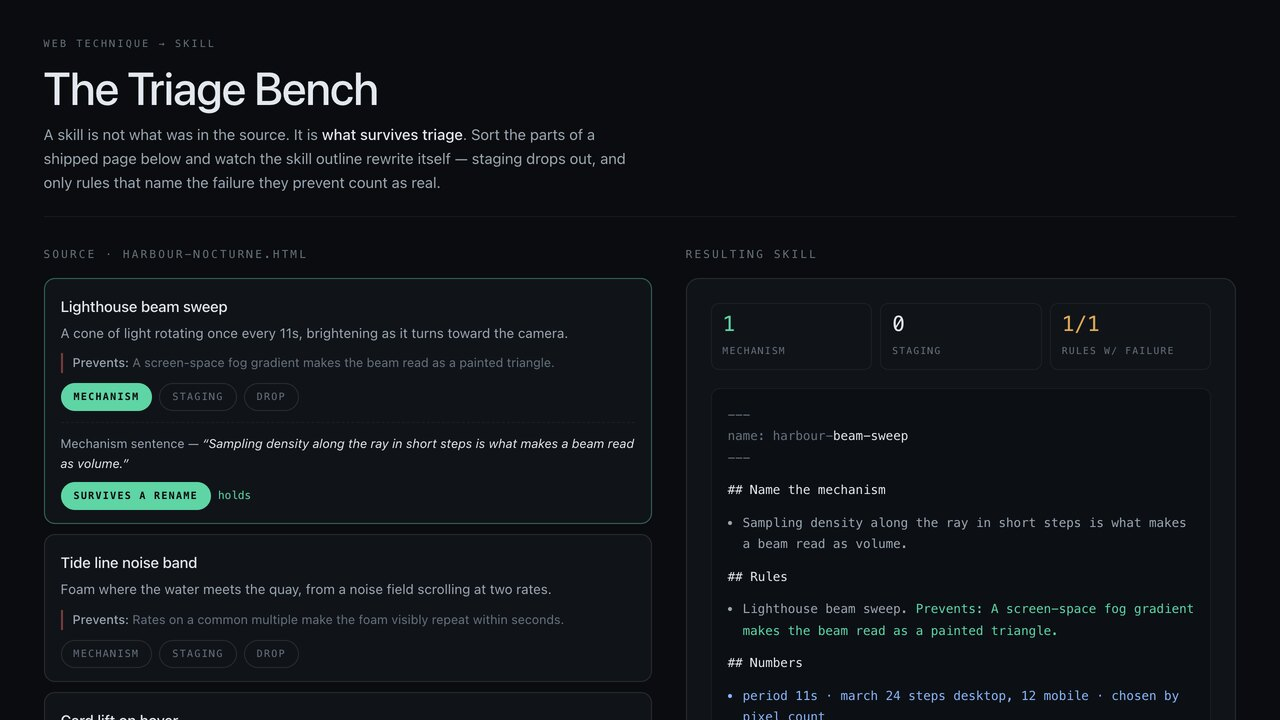
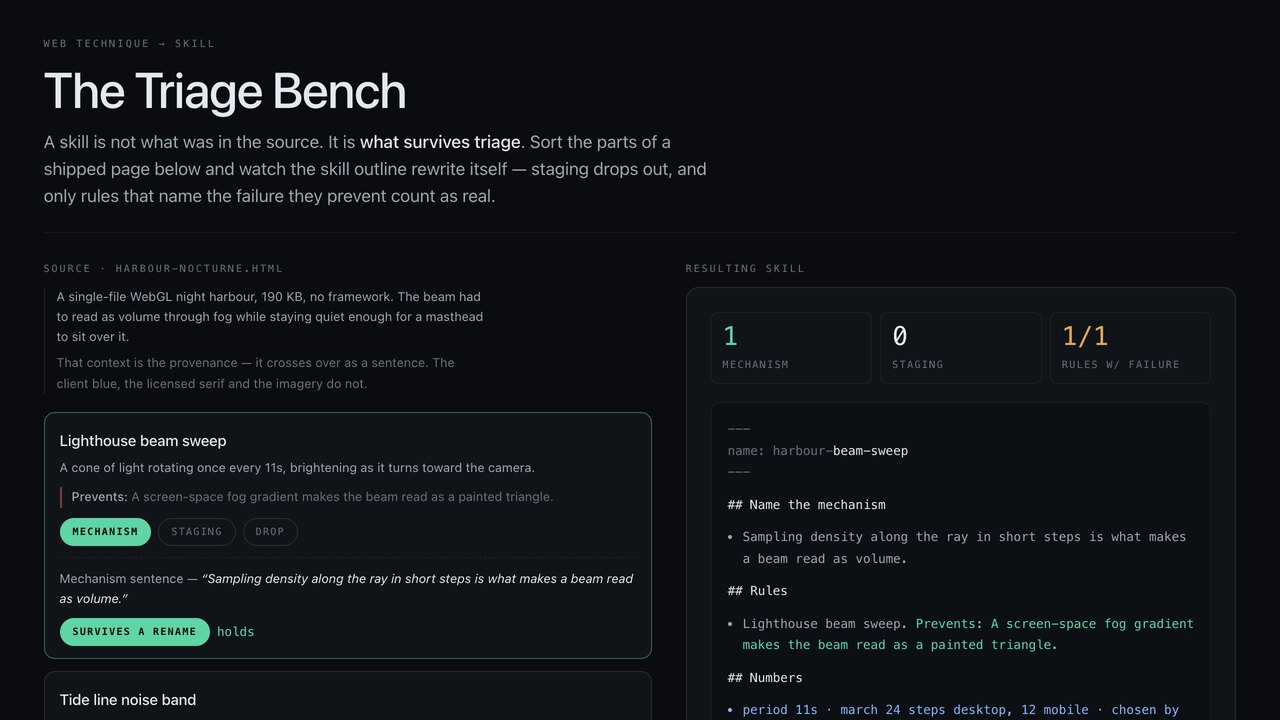
Direct the demo on craft and provenance
The demo is the only evidence most readers see, so give it real direction
rather than a bullet list.

Add "Record where the design came from": one line of context naming the
project and what the mechanism was doing in it, because applicability is
judged from the original context. Provenance crosses over as a sentence,
never as a client name, licensed font, or asset.

Add "Direct the demo": inherit the craft bar of the source rather than of
a code sample; re-subject rather than re-skin; show the mechanism on the
first screen; one idea per screen. Add a quality floor covering type
scale, spacing rhythm, palette restraint, styled focus states, real copy,
self-containment, and the 390-to-1440 range.

Hold the demo to it: one declared type scale and one spacing rhythm
replacing values set by eye, and a provenance note that demonstrates the
rule instead of only describing it.

diff --git a/agent-skills/codex/web-technique-to-skill/demo/index.html b/agent-skills/codex/web-technique-to-skill/demo/index.html
@@ -18,45 +18,62 @@
     --drop:#e0645c;
     --pad:clamp(18px,3.4vw,44px);
     --ease:cubic-bezier(.22,.65,.28,1);
+
+    /* One type scale, ratio ~1.28, so nothing is sized by eye. */
+    --t-label:10px;   /* mono eyebrows and pills   */
+    --t-fine:12.5px;  /* captions, code, verdicts  */
+    --t-body:15px;    /* base                      */
+    --t-lede:17.5px;  /* the one paragraph that matters */
+    --t-head:clamp(28px,4.6vw,50px);
+    --t-num:clamp(21px,2.3vw,26px);
+
+    /* One spacing rhythm. Every gap below is a multiple of --r. */
+    --r:6px;
   }
   *,*::before,*::after{ box-sizing:border-box; }
   html{ -webkit-text-size-adjust:100%; }
   body{
     margin:0; background:var(--ink); color:var(--bone);
     font-family:ui-sans-serif,system-ui,-apple-system,'Helvetica Neue',sans-serif;
-    font-size:15px; line-height:1.6; -webkit-font-smoothing:antialiased;
+    font-size:var(--t-body); line-height:1.62; -webkit-font-smoothing:antialiased;
   }
   .mono{ font-family:ui-monospace,SFMono-Regular,Menlo,monospace; }
 
   .wrap{ max-width:1440px; margin:0 auto; padding:0 var(--pad) clamp(40px,7vh,80px); }
 
   header{ padding:clamp(26px,5vh,54px) 0 22px; border-bottom:1px solid var(--edge-soft); }
-  .eyebrow{ font-size:10px; letter-spacing:.22em; text-transform:uppercase; color:var(--mute);
+  .eyebrow{ font-size:var(--t-label); letter-spacing:.22em; text-transform:uppercase; color:var(--mute);
     font-family:ui-monospace,SFMono-Regular,Menlo,monospace; margin:0 0 12px; }
-  h1{ margin:0 0 10px; font-size:clamp(27px,4.2vw,46px); line-height:1.05;
+  h1{ margin:0 0 calc(var(--r)*2); font-size:var(--t-head); line-height:1.04;
     letter-spacing:-.02em; font-weight:500; }
-  .lede{ margin:0; max-width:62ch; color:var(--dim); }
+  .lede{ margin:0; max-width:62ch; color:var(--dim); font-size:var(--t-lede); line-height:1.55; }
   .lede b{ color:var(--bone); font-weight:500; }
 
   .bench{ display:grid; gap:clamp(20px,2.6vw,38px); padding-top:clamp(22px,4vh,38px);
     grid-template-columns:minmax(0,1.05fr) minmax(0,.95fr); align-items:start; }
   @media (max-width:860px){ .bench{ grid-template-columns:1fr; } }
 
-  h2{ font-size:11px; letter-spacing:.2em; text-transform:uppercase; color:var(--mute);
+  h2{ font-size:var(--t-label); letter-spacing:.2em; text-transform:uppercase; color:var(--mute);
     font-family:ui-monospace,SFMono-Regular,Menlo,monospace; font-weight:500;
-    margin:0 0 14px; }
+    margin:0 0 calc(var(--r)*1.5); }
+
+  /* Provenance is context, not assets — so it is set as a note, not a card. */
+  .prov{ margin:0 0 calc(var(--r)*3); padding-left:calc(var(--r)*2);
+    border-left:1px solid var(--edge); font-size:var(--t-fine); color:var(--dim);
+    max-width:56ch; }
+  .prov span{ display:block; margin-top:var(--r); color:var(--mute); }
 
   /* ------------------------------------------------------------- the parts */
-  .parts{ display:flex; flex-direction:column; gap:10px; list-style:none; margin:0; padding:0; }
+  .parts{ display:flex; flex-direction:column; gap:calc(var(--r)*2); list-style:none; margin:0; padding:0; }
   .part{ border:1px solid var(--edge); border-radius:11px; background:var(--panel);
-    padding:15px 16px 13px; transition:border-color .35s var(--ease); }
+    padding:calc(var(--r)*2.5) calc(var(--r)*2.5) calc(var(--r)*2); transition:border-color .35s var(--ease); }
   .part[data-pile="mechanism"]{ border-color:rgba(95,212,164,.42); }
   .part[data-pile="staging"]  { border-color:rgba(224,169,85,.38); }
   .part[data-pile="drop"]     { border-color:var(--edge-soft); opacity:.5; }
 
-  .part h3{ margin:0 0 5px; font-size:15px; font-weight:500; letter-spacing:-.01em; }
-  .part p{ margin:0 0 9px; font-size:13.5px; color:var(--dim); }
-  .fail{ display:block; font-size:12.5px; color:var(--mute); border-left:2px solid rgba(224,100,92,.5);
+  .part h3{ margin:0 0 var(--r); font-size:var(--t-body); font-weight:500; letter-spacing:-.01em; }
+  .part p{ margin:0 0 calc(var(--r)*1.5); font-size:var(--t-fine); color:var(--dim); }
+  .fail{ display:block; font-size:var(--t-fine); color:var(--mute); border-left:2px solid rgba(224,100,92,.5);
     padding-left:10px; margin:0 0 10px; }
   .fail b{ color:var(--dim); font-weight:500; }
 
@@ -65,7 +82,7 @@
   .opt{ position:relative; }
   .opt input{ position:absolute; inset:0; opacity:0; width:100%; height:100%; margin:0; cursor:pointer; }
   .opt span{ display:block; padding:5px 12px; border:1px solid var(--edge); border-radius:100px;
-    font-size:10px; letter-spacing:.13em; text-transform:uppercase; color:var(--mute);
+    font-size:var(--t-label); letter-spacing:.13em; text-transform:uppercase; color:var(--mute);
     font-family:ui-monospace,SFMono-Regular,Menlo,monospace;
     transition:color .3s var(--ease), border-color .3s var(--ease), background-color .3s var(--ease); }
   .opt input:checked + span{ color:var(--ink); font-weight:600; }
@@ -78,10 +95,10 @@
   /* the rename test appears only once a part is called a mechanism */
   .test{ margin-top:11px; padding-top:11px; border-top:1px dashed var(--edge-soft); }
   .test[hidden]{ display:none; }
-  .test p{ margin:0 0 8px; font-size:12.5px; color:var(--dim); }
+  .test p{ margin:0 0 calc(var(--r)*1.5); font-size:var(--t-fine); color:var(--dim); }
   .test q{ color:var(--bone); font-style:italic; }
   .test .row{ display:flex; flex-wrap:wrap; gap:7px; align-items:center; }
-  .verdict{ font-size:11px; color:var(--keep); font-family:ui-monospace,SFMono-Regular,Menlo,monospace; }
+  .verdict{ font-size:var(--t-fine); color:var(--keep); font-family:ui-monospace,SFMono-Regular,Menlo,monospace; }
   .verdict.bad{ color:var(--drop); }
 
   /* ----------------------------------------------------------- the outline */
@@ -91,16 +108,16 @@
 
   .meter{ display:flex; flex-wrap:wrap; gap:8px; margin:0 0 18px; padding:0; list-style:none; }
   .meter li{ flex:1 1 90px; border:1px solid var(--edge-soft); border-radius:8px; padding:9px 11px; }
-  .meter b{ display:block; font-size:21px; line-height:1.1; font-weight:500;
+  .meter b{ display:block; font-size:var(--t-num); line-height:1.1; font-weight:500;
     font-family:ui-monospace,SFMono-Regular,Menlo,monospace; }
-  .meter small{ font-size:9.5px; letter-spacing:.14em; text-transform:uppercase; color:var(--mute);
+  .meter small{ font-size:var(--t-label); letter-spacing:.14em; text-transform:uppercase; color:var(--mute);
     font-family:ui-monospace,SFMono-Regular,Menlo,monospace; }
   .meter li[data-tone="keep"] b{ color:var(--keep); }
   .meter li[data-tone="warn"] b{ color:var(--stage); }
 
   .doc{ border:1px solid var(--edge-soft); border-radius:9px; background:#0c1015;
     padding:15px 16px; font-family:ui-monospace,SFMono-Regular,Menlo,monospace;
-    font-size:12.5px; line-height:1.72; overflow-x:auto; }
+    font-size:var(--t-fine); line-height:1.72; overflow-x:auto; }
   .doc .fm{ color:var(--mute); }
   .doc .h{ color:var(--bone); }
   .doc .rule{ color:var(--dim); }
@@ -112,7 +129,7 @@
   .doc li{ margin:0 0 3px; }
   .doc > p{ margin:0 0 11px; }
 
-  .note{ margin:16px 0 0; font-size:12.5px; color:var(--mute); }
+  .note{ margin:calc(var(--r)*3) 0 0; font-size:var(--t-fine); color:var(--mute); }
   .note b{ color:var(--dim); font-weight:500; }
 
   .sr{ position:absolute; width:1px; height:1px; overflow:hidden; clip-path:inset(50%); white-space:nowrap; }
@@ -137,6 +154,10 @@
 
     <section aria-labelledby="src-h">
       <h2 id="src-h">Source · harbour-nocturne.html</h2>
+      <p class="prov">A single-file WebGL night harbour, 190&nbsp;KB, no framework. The beam
+        had to read as volume through fog while staying quiet enough for a masthead to sit
+        over it. <span>That context is the provenance — it crosses over as a sentence. The
+        client blue, the licensed serif and the imagery do not.</span></p>
       <ul class="parts" id="parts"></ul>
     </section>
 

diff --git a/agent-skills/codex/web-technique-to-skill/SKILL.md b/agent-skills/codex/web-technique-to-skill/SKILL.md
@@ -80,13 +80,37 @@ Say what is actually expensive, and measure before claiming it. Profile rather t
 
 Report the lever that buys the most for the least — for a recycled particle field, tightening the spawn band beats raising the count, because on-screen density goes as count ÷ area.
 
-## Build a demo that proves the mechanism
+## Record where the design came from
 
-- Show the mechanism on the first screen, without scrolling or interaction.
-- Add controls only where they expose a state that matters, and let them prove the system is parameterised rather than baked.
-- Use realistic content. Never "Card title" or "Demo section".
-- Keep it one self-contained file: no build step, no external assets, no libraries unless the skill is about one.
-- Support 390px through 1440px. Semantic HTML, visible focus.
+Write one line in `SKILL.md` naming the source: what the project was, and what the mechanism was doing in it. A reader decides whether the skill applies to them by understanding the context it survived — "extracted from a dark WebGL Kyoto night scene where it had to stay legible over type" tells them more than any amount of description.
+
+Describe the origin; never carry it across. Client names, licensed fonts, proprietary imagery, and brand palettes stay in the source project. Provenance is a sentence, not an asset.
+
+## Direct the demo
+
+**The demo is the only evidence most readers will ever see.** They will not read the source project, and they will judge the technique by this one file. A mechanism that shipped on a considered page, demonstrated by something that looks like a test harness, reads as unfinished — and nobody reaches for a skill that looks unfinished.
+
+So the demo inherits the craft bar of the source, not the craft bar of a code sample.
+
+- **Match the source's standard**, not its content. If the original had a real type scale, considered spacing, and a restrained palette, the demo has all three. If the original was a cinematic full-viewport scene, the demo is a composed full-viewport scene.
+- **Re-subject, don't re-skin.** Change the subject, palette, copy, and imagery so the demo cannot be mistaken for the source project. Keep the compositional discipline; drop the identity. A leaf fall extracted from a Kyoto night becomes a different autumn, not the same page with the logo removed.
+- **Show the mechanism on the first screen** — before any scroll, before any interaction. If it takes a click to see the point, the framing is wrong.
+- **One idea per screen.** A demo proving three things proves none of them.
+- **Controls expose states that matter**, as real form elements, and prove the system is parameterised rather than baked. Skip controls that only restate what is already visible.
+
+### Quality floor
+
+Every one of these, every time:
+
+- A deliberate type scale with a considered largest and smallest step — never browser defaults
+- Spacing on one consistent rhythm
+- A restrained palette with one accent that carries meaning
+- Every interactive control styled, including its focus state
+- Real, specific copy from a plausible project — never "Card title" or "Demo section"
+- One self-contained file: no build step, no external assets, no libraries unless the skill is about one
+- 390px through 1440px, semantic HTML, visible focus, and a clean console at both ends
+
+If the demo would embarrass you next to the page you extracted it from, it is not finished.
 
 ## Verify in a browser, then report
 
@@ -125,6 +149,10 @@ Stage only the new folder and the gallery rows it needs. Review `git diff --cach
 - [ ] Constants are real numbers, not adjectives
 - [ ] The expensive gotchas are written symptom-first
 - [ ] The boundary against the nearest existing skill is stated in the opening lines
+- [ ] Provenance is one line of context, carrying no brand, font, or asset across
+- [ ] The demo shows the mechanism on the first screen, before scroll or interaction
+- [ ] The demo would not embarrass you next to the page it came from
+- [ ] Type scale, spacing rhythm, and palette are deliberate, not defaults
 - [ ] Reduced motion renders a designed still, not a hidden element
 - [ ] Cost claims were measured, not assumed
 - [ ] The demo was driven in a browser at both breakpoints with a clean console
